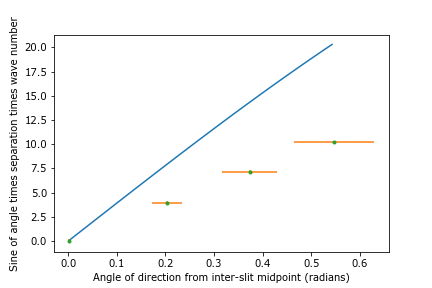
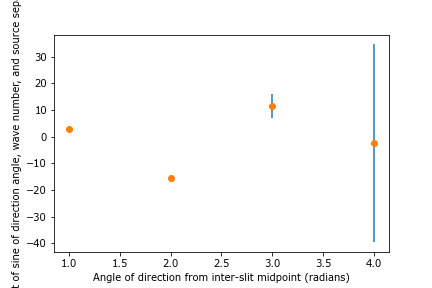
Finished code for Wave Phenomena

diff --git a/Wave Phenomena/WavePhenomena.py b/Wave Phenomena/WavePhenomena.py
@@ -7,6 +7,8 @@ from numpy import sin
 from numpy import tan
 from numpy import pi
 import matplotlib.pyplot as pl
+import scipy.optimize as so
+from scipy.optimize import curve_fit
 
 "WAVE SPEED"
 frequency= [5,10,12,15,20]
@@ -28,24 +30,52 @@ f = 20 #Hz
 slitSeperation = np.array([3.0,1.0,0.50,0.01])
 angularSpread = np.array([34.21,41.72,50.47,58.86])
 uAngularSpread = 0.15 * angularSpread
+wavelength = np.array([0.972,0.972,0.972,0.972])
+uWavelength = 0.15 * wavelength
 ##################
 angularSpread = angularSpread * pi / 180
-uAngularSpread = 10
+uAngularSpread = angularSpread * pi / 180
 #################
 a = slitSeperation
 uA = 0.1 #cm
 th = angularSpread
+uTh = uAngularSpread
 uSinth = sin(th)*uAngularSpread * (1/tan(th))
+print(uSinth)
+################
+def model(x, slope, b):
+    return (slope * x)+b;
+prpv, pcov = so.curve_fit(model, sin(th), wavelength)
+#Computing Chi-Squared
+X2 = 0
+i = 0
+while i < len(sin(th)):
+    X2 = X2 + ((((wavelength[i]-model(sin(th),prpv[0],prpv[1])[i])/uWavelength[i])**2)/(model(sin(th),prpv[0],prpv[1])[i]))
+    i = i + 1
+print("Chi-Squared is ",X2," for the Non-Linear Regression Model.")
+if X2 < 1:
+    print("Thus, this model is over-fit.\n")
+if X2 > 10:
+    print("Thus, the model is a poor fit.\n")
+
+if X2 > 1 and X2 < 5:
+    print("Thus, the model is an incomplete fit.\n")
 ################
 pl.cla()
-pl.errorbar(a, sin(th), xerr=uA, yerr=uSinth, fmt=" ")
-pl.plot(a,sin(th), ".")
-pl.ylabel("Sin of the Angular Spread")
-pl.xlabel("Slit seperation (cm)")
-pl.savefig("Experiment 4 -- Slit sepration over Sine of Angular Spread");
+pl.plot(sin(th),model(sin(th),prpv[0],prpv[1]))
+pl.errorbar(sin(th), wavelength, xerr=uSinth, yerr=uWavelength, fmt=" ")
+pl.plot(sin(th),wavelength, ".")
+pl.ylabel("Wavelength (cm)")
+pl.xlabel("Sine of Angular spread")
+pl.legend(['Measured values with uncertainty','Prediction from Regression'])
+pl.savefig("Experiment 4");
 
+print("slope is ",prpv[0])
+print("chisquared is ", X2)
 
+#a sin = l
 
+#sint = l/a
 
 
 
@@ -57,29 +87,27 @@ wavelength = 0.972
 uWavelength = wavelength * 0.15
 v = f*wavelength
 uV = np.sqrt((uWavelength/wavelength)**2+(uF/f)**2)
+######################
 k = 2 * pi / wavelength
 uK = k * uWavelength / wavelength
-th = np.array([0.15,11.65,21.37,31.29])
-th = th * pi / 180 
-uTh = th * 0.15
 d= 6.08
 uD = 1
+th = np.array([0.15, 11.65, 21.37, 31.29])
+uTh = th * 0.15
 ###############
 m = np.array([1,2,3,4])
-x = np.arange(th[0],th[-1],0.01)
 uKD2 = np.sqrt(((uK/k)**2+(uD/d)**2))/2
 uSinth = uTh * (sin(th))*(1/tan(th))
 y = k * d * sin(th) / 2
 uY = np.sqrt(((uKD2/(k*d/2))**2+(uSinth/(sin(th)))**2))
 #####################
+print(uY[-1])
 pl.cla()
-pl.plot(x,k*d*sin(x))
-pl.errorbar(th,k*d*sin(th)/2, xerr=uTh, yerr=uY, fmt=" ")
-pl.plot(th,y, ".")
-pl.xlabel("Angle of direction from inter-slit midpoint (radians)")
-pl.ylabel("Sine of angle times separation times wave number")
-pl.savefig("Experiment 5 -- TRIAL 1 - 608 cm")
+pl.errorbar(m,y, yerr=uY, fmt=" ")
+pl.plot(m,y, "o")
+#pl.savefig("Experiment 5 -- TRIAL 1 - 608 cm")
 
+"INTERFERENCE"
 """TRIAL 2"""
 f = 20 #Hz
 uF = 0.05
@@ -87,30 +115,26 @@ wavelength = 0.972
 uWavelength = wavelength * 0.15
 v = f*wavelength
 uV = np.sqrt((uWavelength/wavelength)**2+(uF/f)**2)
-k = 2 * pi / wavelength
 ######################
+k = 2 * pi / wavelength
 uK = k * uWavelength / wavelength
-th = np.array([2.86,3.39,7.81,13.58])
-th = th * pi / 180 
-uTh = th * 0.15
+####################
 d= 12.58
 uD = 1
+th = np.array([2.86, 3.39, 7.81, 13.58])
+uTh = th * 0.15
 ###############
 m = np.array([1,2,3,4])
-x = np.arange(th[0],th[-1],0.01)
 uKD2 = np.sqrt(((uK/k)**2+(uD/d)**2))/2
 uSinth = uTh * (sin(th))*(1/tan(th))
 y = k * d * sin(th) / 2
 uY = np.sqrt(((uKD2/(k*d/2))**2+(uSinth/(sin(th)))**2))
 #####################
-pl.cla()
-pl.plot(x,k*d*sin(x))
-pl.errorbar(th,k*d*sin(th)/2, xerr=uTh, yerr=uY, fmt=" ")
-pl.plot(th,y, ".")
-pl.xlabel("Angle of direction from inter-slit midpoint (radians)")
-pl.ylabel("Sine of angle times separation times wave number")
-pl.savefig("Experiment 5 -- TRIAL 2 - 12 cm")
+print(uY[-1])
+pl.errorbar(m,y, yerr=uY, fmt=" ")
+pl.plot(m,y, "o")
 
+"INTERFERENCE"
 """TRIAL 3"""
 f = 20 #Hz
 uF = 0.05
@@ -118,26 +142,26 @@ wavelength = 0.972
 uWavelength = wavelength * 0.15
 v = f*wavelength
 uV = np.sqrt((uWavelength/wavelength)**2+(uF/f)**2)
+######################
 k = 2 * pi / wavelength
 uK = k * uWavelength / wavelength
-######################
-th = np.array([5.41,15.64,26.43,38.09])
-th = th * pi / 180 
-uTh = th * 0.15
-d= 6.08
+####################
+d= 6.25
 uD = 1
+th = np.array([5.41, 15.64, 26.43, 38.09])
+uTh = th * 0.15
 ###############
 m = np.array([1,2,3,4])
-x = np.arange(th[0],th[-1],0.01)
 uKD2 = np.sqrt(((uK/k)**2+(uD/d)**2))/2
 uSinth = uTh * (sin(th))*(1/tan(th))
 y = k * d * sin(th) / 2
 uY = np.sqrt(((uKD2/(k*d/2))**2+(uSinth/(sin(th)))**2))
 #####################
-pl.cla()
-pl.plot(x,k*d*sin(x))
-pl.errorbar(th,k*d*sin(th)/2, xerr=uTh, yerr=uY, fmt=" ")
-pl.plot(th,y, ".")
-pl.xlabel("Angle of direction from inter-slit midpoint (radians)")
-pl.ylabel("Sine of angle times separation times wave number")
-pl.savefig("Experiment 5 -- TRIAL 3 - 625 cm")
+print(uY[-1])
+pl.errorbar(m,y, yerr=uY, fmt=" ")
+pl.plot(m,y, "o")
+
+pl.xlabel("Maxima order")
+pl.ylabel("sin(θ) * d * k")
+pl.legend(['d = 6.08 cm','d = 12.58 cm','d = 6.25 cm'])
+pl.savefig("Activity 5")
